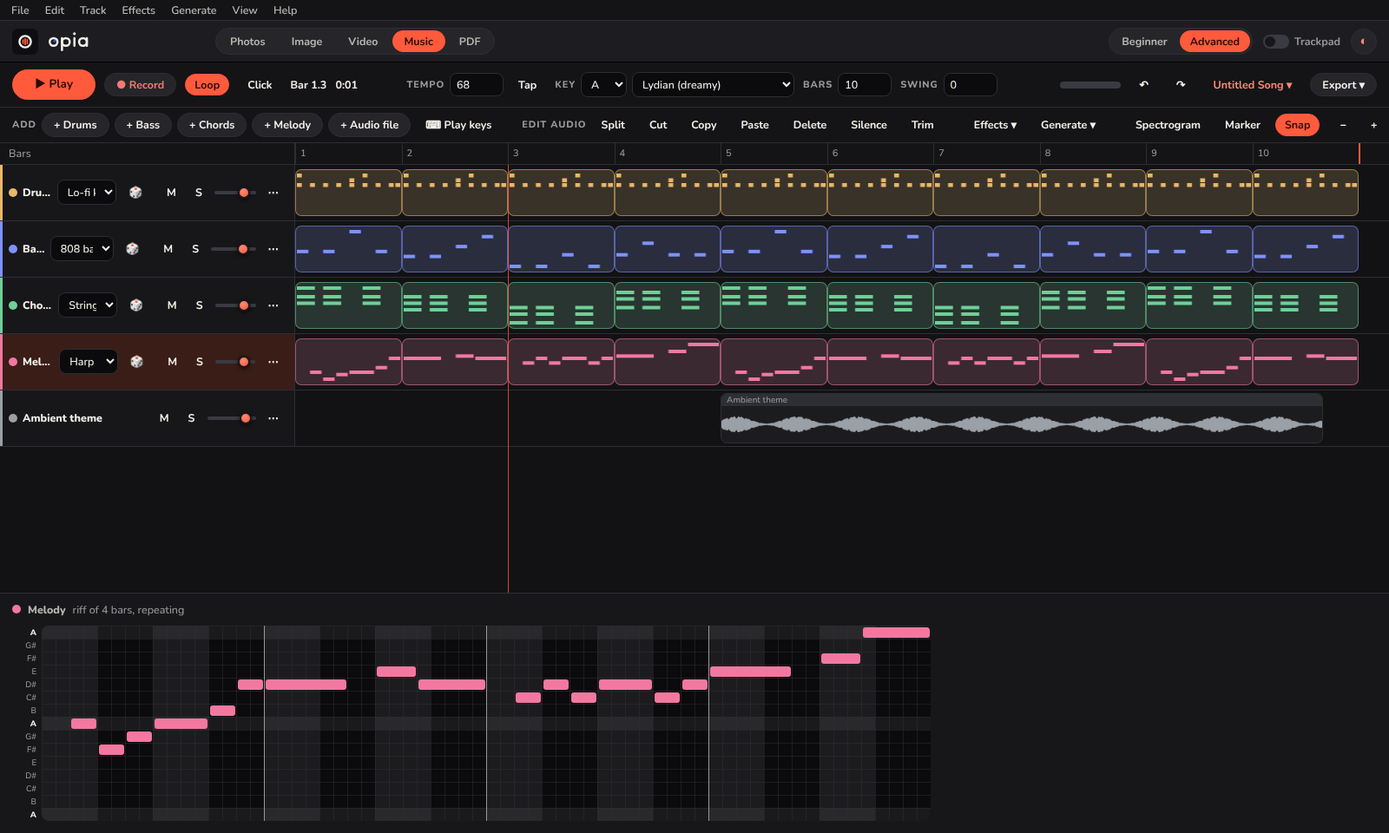
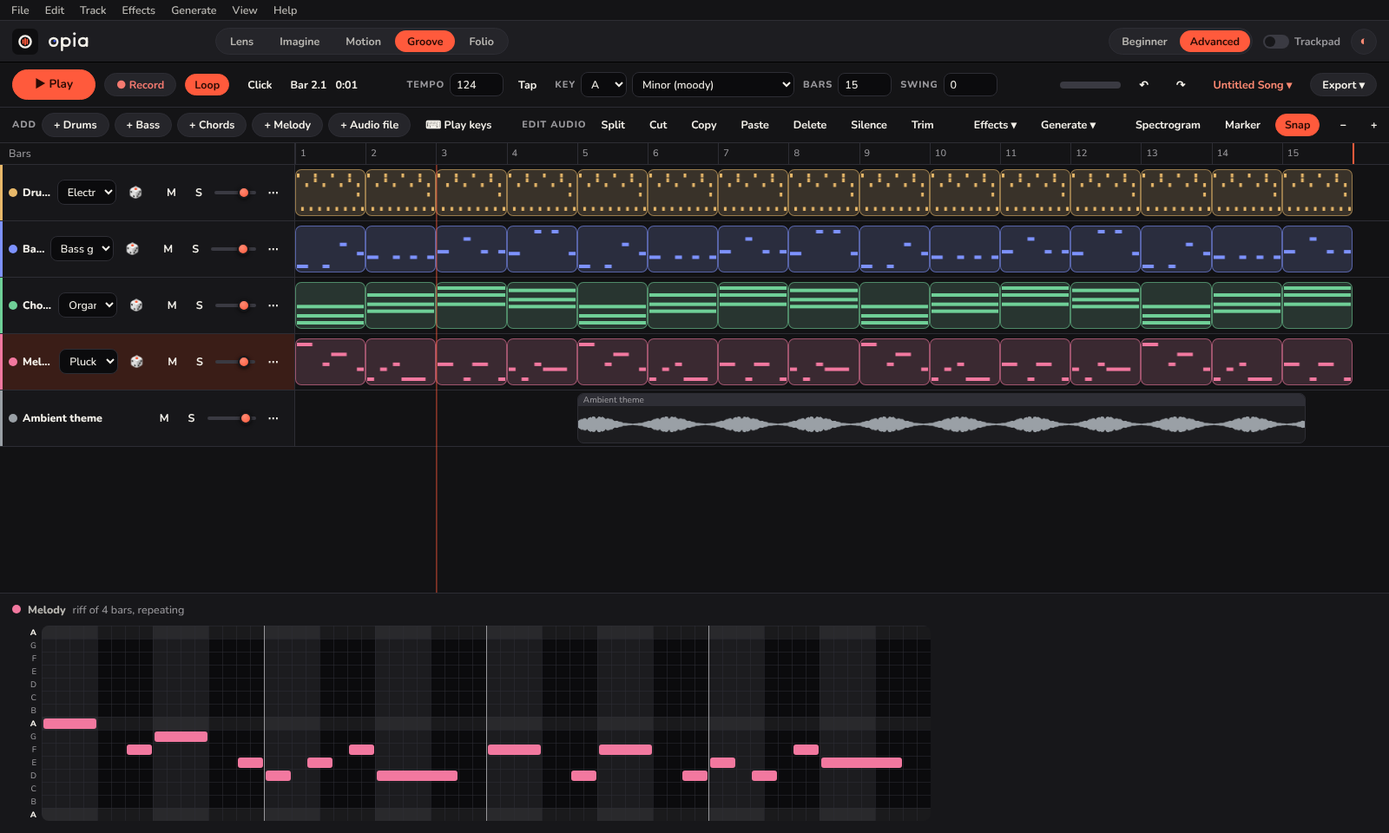
Rename the workspaces: Lens, Imagine, Motion, Groove, Folio
Photos, Image, Video, Music and PDF get their new names on the switch,
welcome screens, tour, About box, menus and messages. The names are not
translated. README, banner and screenshots updated. Folders on disk and
internal identifiers are unchanged so existing work keeps opening.

Claude-Session: https://claude.ai/code/session_0174ShAgsKe6ErnFQW6zpyMm

diff --git a/web/js/i18n.js b/web/js/i18n.js
@@ -96,7 +96,7 @@ Strings=Cuerdas|Guitar=Guitarra|Harp=Arpa|Marimba=Marimba|808 bass=Bajo 808|My s
 Make and edit music=Crea y edita música|Output level=Nivel de salida|Zoom out=Alejar|Zoom in=Acercar|Show the whole song=Mostrar toda la canción|There is nothing to export yet.=Todavía no hay nada que exportar.|Nothing copied yet.=Aún no has copiado nada.|Select the audio track to paste into.=Selecciona la pista de audio donde pegar.|Select an audio track first, then drag across the part you want.=Selecciona primero una pista de audio y arrastra sobre la parte que quieras.|Drag across the part of the audio you want to remove.=Arrastra sobre la parte del audio que quieres quitar.|Drag across the part you want to keep.=Arrastra sobre la parte que quieres conservar.
 That file could not be read as audio.=Ese archivo no se pudo leer como audio.|No microphone available, or permission was refused.=No hay micrófono disponible o se denegó el permiso.|Select a drums, bass, chords or melody track to edit its riff here. Click the bars in its lane to choose where it plays.=Selecciona una pista de batería, bajo, acordes o melodía para editar su riff aquí. Haz clic en los compases de su carril para elegir dónde suena.
 Drag across the waveform to select a range, click to place the cursor, and drag a clip by its name strip to move it. The Edit and Effects buttons act on the selection.=Arrastra sobre la onda para seleccionar un tramo, haz clic para colocar el cursor y arrastra un clip por su franja de nombre para moverlo. Los botones de edición y efectos actúan sobre la selección.|Nothing here yet. Add a part with the buttons above, or=Aún no hay nada. Añade una parte con los botones de arriba, o|Photos and Music=Fotos y música
-Opia is five workspaces. Photos is where this tour continues. Image is a layered picture editor for painting, cutting out and adding text. Video puts clips, titles and music on a timeline and exports an MP4. Music is a studio for making songs from short riffs and for editing audio. PDF is for reading, signing and rearranging PDFs.=Opia tiene cinco espacios de trabajo. El recorrido sigue en Fotos. Imagen es un editor de imágenes por capas para pintar, recortar y añadir texto. Vídeo pone clips, títulos y música en una línea de tiempo y exporta un MP4. Música es un estudio para crear canciones con riffs cortos y editar audio. PDF sirve para leer, firmar y reordenar archivos PDF.|Your workspaces=Tus espacios de trabajo|How fast the song is, in beats per minute. 80 to 100 feels relaxed, 120 and up feels like dancing.=La velocidad de la canción, en pulsos por minuto. De 80 a 100 es tranquilo; de 120 en adelante invita a bailar.|The home note of the song. Change it to move everything higher or lower. If it sounds fine, leave it.=La nota principal de la canción. Cámbiala para subir o bajar todo. Si suena bien, déjala.
+Opia is five workspaces. Lens, for your photos, is where this tour continues. Imagine is a layered picture editor for painting, cutting out and adding text. Motion puts clips, titles and music on a timeline and exports an MP4. Groove is a studio for making songs from short riffs and for editing audio. Folio is for reading, signing and rearranging PDFs.=Opia tiene cinco espacios de trabajo. El recorrido sigue en Lens, para tus fotos. Imagine es un editor de imágenes por capas para pintar, recortar y añadir texto. Motion pone clips, títulos y música en una línea de tiempo y exporta un MP4. Groove es un estudio para crear canciones con riffs cortos y editar audio. Folio sirve para leer, firmar y reordenar archivos PDF.|Your workspaces=Tus espacios de trabajo|How fast the song is, in beats per minute. 80 to 100 feels relaxed, 120 and up feels like dancing.=La velocidad de la canción, en pulsos por minuto. De 80 a 100 es tranquilo; de 120 en adelante invita a bailar.|The home note of the song. Change it to move everything higher or lower. If it sounds fine, leave it.=La nota principal de la canción. Cámbiala para subir o bajar todo. Si suena bien, déjala.
 The set of notes the riffs are allowed to use. Major sounds bright, Minor sounds moody. Because of it, no note you click will sound wrong.=El conjunto de notas que pueden usar los riffs. Mayor suena luminosa y Menor melancólica. Gracias a ella, ninguna nota que marques sonará mal.|A bar is one count of four beats. This is how many bars the song lasts before it loops.=Un compás es una cuenta de cuatro pulsos. Esto indica cuántos compases dura la canción antes de repetirse.|When on, playback goes back to the start at the end of the song.=Si está activo, la reproducción vuelve al principio al acabar la canción.
 A click on every beat while playing, to help you keep time when recording.=Un clic en cada pulso al reproducir, para ayudarte a llevar el ritmo al grabar.|Writes a fresh riff for this card that fits the rest of the song. Don’t like it? Press again, or Undo.=Escribe un riff nuevo para esta tarjeta que encaja con el resto de la canción. ¿No te gusta? Pulsa otra vez o deshaz.|How loud this part is.=El volumen de esta parte.|Places this part to the left or right.=Coloca esta parte a la izquierda o a la derecha.|A beat. Each row is a drum, each column a moment in the bar.=Un ritmo. Cada fila es un tambor y cada columna un momento del compás.
 The low notes that hold the song together.=Las notas graves que sostienen la canción.|Several notes at once, giving the song its mood.=Varias notas a la vez, que dan a la canción su carácter.|The tune on top, the part you would hum.=La melodía principal, la parte que tararearías.|Bring in a recording or a song from this computer.=Trae una grabación o una canción de este equipo.|New idea=Nueva idea|Metronome=Metrónomo
@@ -125,6 +125,8 @@ Shape=Forma|Width=Ancho|Height=Alto|Clips are fitted into this frame. 30 frames 
 Export Video=Exportar vídeo|Export Video…=Exportar vídeo…|Good=Buena|High (large file)=Alta (archivo grande)|Small file=Archivo pequeño|Makes an MP4 (H.264 video, AAC sound) that plays almost anywhere. Long or 4K videos take a while; you can keep working meanwhile.=Crea un MP4 (vídeo H.264, sonido AAC) que se reproduce casi en cualquier sitio. Los vídeos largos o 4K tardan un rato; puedes seguir trabajando mientras tanto.
 New Project…=Nuevo proyecto…|Rename Project…=Renombrar proyecto…|Delete Project…=Eliminar proyecto…|Delete This Project…=Eliminar este proyecto…|Import from Disk…=Importar desde el disco…|Save Frame as Picture…=Guardar fotograma como imagen…|Edit Frame in Image Editor=Editar fotograma en el editor de imágenes|Split at Playhead=Dividir en el cabezal|Select All Clips=Seleccionar todos los clips|Crossfade with Clip Before=Fundido con el clip anterior|Add Video Track=Añadir pista de vídeo|Add Audio Track=Añadir pista de audio|Rename Track…=Renombrar pista…|Delete Track=Eliminar pista|Rename Track=Renombrar pista|Play / Pause=Reproducir / pausa|Go to Start=Ir al inicio|Go to End=Ir al final|Show Whole Timeline=Ver toda la línea de tiempo|Clip=Clip|Playback=Reproducción|Make a Video from Selected Photos=Hacer un vídeo con las fotos seleccionadas|New Video=Nuevo vídeo|Rename Project=Renombrar proyecto|Delete Project?=¿Eliminar proyecto?
 Drag a clip to move it, also onto another audio track, and drag its ends to trim it. Shift-drag across the waveform to select part of it; the Edit and Effects buttons act on that, or on the clicked clip. Drop sound files from your computer anywhere on the timeline.=Arrastra un clip para moverlo, también a otra pista de audio, y arrastra sus extremos para recortarlo. Arrastra con Mayús sobre la forma de onda para seleccionar una parte; los botones de Edición y Efectos actúan sobre ella o sobre el clip pulsado. Suelta archivos de sonido de tu equipo en cualquier punto de la línea de tiempo.|Drag to move it, also onto another audio track. Drag an end to trim it. Shift-drag to select part of it.=Arrastra para moverlo, también a otra pista de audio. Arrastra un extremo para recortarlo. Arrastra con Mayús para seleccionar una parte.|Drag to trim the start=Arrastra para recortar el inicio|Drag to trim the end=Arrastra para recortar el final|New audio track=Nueva pista de audio
+Edit in Imagine=Editar en Imagine|Edit Frame in Imagine=Editar fotograma en Imagine|Make a Video in Motion=Hacer un vídeo en Motion|Pick a photo in Lens first.=Elige primero una foto en Lens.|Select some photos in Lens first.=Selecciona primero algunas fotos en Lens.|Add it to the Lens catalog=Añadirla al catálogo de Lens|Lens: organise and edit photos=Lens: organiza y edita fotos|Imagine: paint, combine pictures in layers, add text, fix colours=Imagine: pinta, combina imágenes en capas, añade texto y corrige colores|Motion: edit video on a timeline and export an MP4=Motion: edita vídeo en una línea de tiempo y exporta un MP4|Groove: make and edit music=Groove: crea y edita música|Paint, cut out, combine pictures in layers, add text and shapes, and fix colours. Open a picture, start a blank one, or bring in a photo from Lens.=Pinta, recorta, combina imágenes en capas, añade texto y formas y corrige colores. Abre una imagen, empieza una en blanco o trae una foto de Lens.
+Folio: read, sign, mark up and rearrange PDFs=Folio: lee, firma, anota y reordena archivos PDF
 `;
 
 const Lang = {

diff --git a/web/js/image.js b/web/js/image.js
@@ -30,7 +30,7 @@ const IE_TOOLS = [
 const IE_SIZES = [['Screen (1920 × 1080)', 1920, 1080], ['Square post (1080 × 1080)', 1080, 1080], ['Portrait post (1080 × 1350)', 1080, 1350], ['Story (1080 × 1920)', 1080, 1920], ['A4 page at 300 dpi', 2480, 3508], ['Letter page at 300 dpi', 2550, 3300], ['Small (800 × 600)', 800, 600]];
 
 const ImgEd = {
-  id: 'image', name: 'Image', exclusive: true, doc: null, tool: 'brush', undo: [], redo: [], gen: 0, view: { s: 1, ox: 0, oy: 0 }, fit: true,
+  id: 'image', name: 'Imagine', exclusive: true, doc: null, tool: 'brush', undo: [], redo: [], gen: 0, view: { s: 1, ox: 0, oy: 0 }, fit: true,
   style: { fg: '#1d1d1f', bg: '#ffffff', size: 24, hard: .8, flow: 1, tol: 32, contiguous: true, all: false, font: IE_FONTS[0][0], fsize: 64, bold: false, italic: false, align: 'left', shape: 'rect', fill: true, stroke: false, lw: 6, radius: 0, selMode: 'new', grad: 'fg' },
   clip: null, sel: null, tf: null, cropR: null, paintOp: null, preview: null, editing: null, space: false, ptr: null,
 
@@ -131,9 +131,9 @@ const ImgEd = {
     if (files.length > 1) await this.place(files.slice(1));
   },
   async openPath(path) { await this.openFiles([{ path, name: path.split(/[\\/]/).pop() }]); },
-  /* open a photo from the Photos catalog, with its Develop edits */
+  /* open a photo from the Lens catalog, with its Develop edits */
   async fromPhoto(p) {
-    if (!p) return UI.toast('Pick a photo in Photos first.');
+    if (!p) return UI.toast('Pick a photo in Lens first.');
     App.show('image');
     if (!await this.leave()) return;
     const c = await Exporter.render(p, {}), d = this.makeDoc(c.width, c.height, p.filename.replace(/\.[^.]+$/, '') + ' edit');
@@ -839,7 +839,7 @@ const ImgEd = {
     const cat = h('input', { type: 'checkbox', checked: !!d.fromPhoto || App.conf('img_cat', false) });
     const showQ = () => { q.style.display = ['jpeg', 'webp'].includes(fmtSel.value) ? '' : 'none'; }; fmtSel.onchange = showQ; showQ();
     const ext = () => ({ png: '.png', jpeg: '.jpg', webp: '.webp', tiff: '.tif' })[fmtSel.value];
-    const r = await this.ask('Export Picture', ext, h('div', { class: 'pd-form' }, h('label', { class: 'frow' }, h('span', {}, 'Format'), fmtSel), q, h('label', { class: 'frow adv' }, h('span', {}, 'Size'), scale), h('label', { class: 'fcheck' }, cat, 'Add it to the Photos catalog'), h('p', { class: 'dim' }, 'Export makes one flat picture with every visible layer. Keep a project too if you want to change the layers later.')));
+    const r = await this.ask('Export Picture', ext, h('div', { class: 'pd-form' }, h('label', { class: 'frow' }, h('span', {}, 'Format'), fmtSel), q, h('label', { class: 'frow adv' }, h('span', {}, 'Size'), scale), h('label', { class: 'fcheck' }, cat, 'Add it to the Lens catalog'), h('p', { class: 'dim' }, 'Export makes one flat picture with every visible layer. Keep a project too if you want to change the layers later.')));
     if (!r) return;
     App.setConf('img_fmt', fmtSel.value); App.setConf('img_q', q.get()); App.setConf('img_cat', cat.checked);
     this.composite(); let cv = this.comp; const k = +scale.value / 100; if (k < 1) { const s = this.canvas(d.w * k, d.h * k), g = s.getContext('2d'); g.imageSmoothingQuality = 'high'; g.drawImage(cv, 0, 0, s.width, s.height); cv = s; }
@@ -854,8 +854,8 @@ const ImgEd = {
   drawWelcome() {
     $$('.ie-welcome', this.port).forEach(x => x.remove()); this.g.setTransform(1, 0, 0, 1, 0, 0); this.g.clearRect(0, 0, this.cv.width, this.cv.height); this.og.setTransform(1, 0, 0, 1, 0, 0); this.og.clearRect(0, 0, this.ov.width, this.ov.height);
     const recent = App.conf('img_recent', []);
-    this.port.append(h('div', { class: 'pd-welcome ie-welcome' }, h('img', { class: 'pd-logo', src: 'img/opia-image-icon.svg', alt: '' }), h('h2', {}, 'Image'), h('p', { class: 'dim' }, 'Paint, cut out, combine pictures in layers, add text and shapes, and fix colours. Open a picture, start a blank one, or bring in a photo from Photos.'),
-      h('div', { class: 'pd-big' }, this.btn('Open a Picture…', () => this.open(), null, 'primary big'), this.btn('New Blank Picture…', () => this.newDoc(), null, 'big'), this.btn('Edit the Selected Photo', () => this.fromPhoto(App.cur()), 'Open the photo that is selected in Photos, with its Develop edits.', 'big')),
+    this.port.append(h('div', { class: 'pd-welcome ie-welcome' }, h('img', { class: 'pd-logo', src: 'img/opia-image-icon.svg', alt: '' }), h('h2', {}, 'Imagine'), h('p', { class: 'dim' }, 'Paint, cut out, combine pictures in layers, add text and shapes, and fix colours. Open a picture, start a blank one, or bring in a photo from Lens.'),
+      h('div', { class: 'pd-big' }, this.btn('Open a Picture…', () => this.open(), null, 'primary big'), this.btn('New Blank Picture…', () => this.newDoc(), null, 'big'), this.btn('Edit the Selected Photo', () => this.fromPhoto(App.cur()), 'Open the photo that is selected in Lens, with its Develop edits.', 'big')),
       h('p', { class: 'dim' }, 'Or drop a picture here, or paste one with Ctrl+V.'),
       recent.length ? h('div', { class: 'pd-recent' }, h('div', { class: 'fsec' }, 'Opened recently'), recent.map(p => h('a', { title: p, data: { notr: 1 }, onclick: () => this.openPath(p).catch(UI.error) }, p.split(/[\\/]/).pop()))) : null));
   },
@@ -866,7 +866,7 @@ const ImgEd = {
     this.bar.replaceChildren(
       this.btn('Open…', () => this.open(), 'Open a picture or a saved project.'), this.btn('New…', () => this.newDoc(), 'Start a blank picture.', 'adv'),
       this.btn(d.dirty ? 'Save *' : 'Save', () => this.save(), 'Save a project that keeps the layers, so you can carry on later. The picture you opened is not changed.', d.dirty ? 'primary' : ''),
-      this.btn('Export…', () => this.exportPic(), 'Save a finished picture (PNG, JPEG, WebP or TIFF) to use anywhere. It can go straight into your Photos catalog.'), sep(),
+      this.btn('Export…', () => this.exportPic(), 'Save a finished picture (PNG, JPEG, WebP or TIFF) to use anywhere. It can go straight into your Lens catalog.'), sep(),
       h('b', { class: 'mu-name', title: 'Double-click to rename', data: { notr: 1 }, ondblclick: async () => { const n = await UI.prompt('Rename', 'Name', d.name); if (n) { d.name = n.replace(/[\\/:*?"<>|]/g, ''); d.path = null; this.drawBar(); } } }, d.name), h('span', { class: 'dim' }, d.w + ' × ' + d.h), sep(),
       h('button', { class: 'btn', title: 'Zoom out', onclick: () => this.zoomBy(.8) }, '−'), h('span', { class: 'pd-zoom', title: 'Fit the picture to the window (Ctrl+0)', onclick: () => this.setZoom('fit') }, z + '%'), h('button', { class: 'btn', title: 'Zoom in', onclick: () => this.zoomBy(1.25) }, '+'),
       h('button', { class: 'btn adv', title: 'Actual pixels (Ctrl+1)', onclick: () => this.setZoom(1) }, '1:1'),

diff --git a/web/js/app.js b/web/js/app.js
@@ -103,17 +103,17 @@ function registerCommands() {
   I('auto', 'Auto Tone', '', () => ImgEd.autoTone()); I('bw', 'Black & White', '', () => ImgEd.desaturate()); I('invertc', 'Invert Colours', 'Ctrl+I', () => ImgEd.invertColours()); I('posterize', 'Posterize…', '', () => ImgEd.posterize()); I('threshold', 'Threshold…', '', () => ImgEd.threshold());
   I('blur', 'Blur…', '', () => ImgEd.blur()); I('sharpen', 'Sharpen…', '', () => ImgEd.sharpen()); I('noise', 'Add Noise…', '', () => ImgEd.noise()); I('pixelate', 'Pixelate…', '', () => ImgEd.pixelate());
   I('zin', 'Zoom In', 'Ctrl+=', () => ImgEd.zoomBy(1.25)); I('zout', 'Zoom Out', 'Ctrl+-', () => ImgEd.zoomBy(.8)); I('zfit', 'Fit on Screen', 'Ctrl+0', () => ImgEd.setZoom('fit')); I('z100', 'Actual Pixels', 'Ctrl+1', () => ImgEd.setZoom(1));
-  C('photo.imageedit', 'Edit in Image Editor', '', () => ImgEd.fromPhoto(App.cur()));
+  C('photo.imageedit', 'Edit in Imagine', '', () => ImgEd.fromPhoto(App.cur()));
   const V = (id, label, key, fn, needP = true) => C('video.' + id, label, key, () => { if (App.module !== 'video') return; if (needP && !Vid.p) return UI.toast('Start or open a video project first.'); return fn(); }, { modules: ['video'] });
   V('new', 'New Project…', 'Ctrl+N', () => Vid.create(), false); V('rename', 'Rename Project…', '', () => Vid.rename()); V('delete', 'Delete Project…', '', () => Vid.del()); V('import', 'Import Media…', 'Ctrl+I', () => Vid.importMedia(), false); V('importdisk', 'Import from Disk…', '', () => Vid.importFromDisk(), false);
-  V('photos', 'Add Selected Photos', '', () => Vid.addPhotos(), false); V('export', 'Export Video…', 'Ctrl+Shift+E', () => Vid.exportDialog()); V('frame', 'Save Frame as Picture…', '', () => Vid.saveFrame()); V('frameimg', 'Edit Frame in Image Editor', '', () => Vid.frameToImage()); V('settings', 'Project Settings…', '', () => Vid.settings());
+  V('photos', 'Add Selected Photos', '', () => Vid.addPhotos(), false); V('export', 'Export Video…', 'Ctrl+Shift+E', () => Vid.exportDialog()); V('frame', 'Save Frame as Picture…', '', () => Vid.saveFrame()); V('frameimg', 'Edit Frame in Imagine', '', () => Vid.frameToImage()); V('settings', 'Project Settings…', '', () => Vid.settings());
   V('undo', 'Undo', 'Ctrl+Z', () => Vid.step(Vid.undo, Vid.redo)); V('redo', 'Redo', 'Ctrl+Y', () => Vid.step(Vid.redo, Vid.undo)); V('split', 'Split at Playhead', 'S', () => Vid.split()); V('del', 'Delete', 'Delete', () => Vid.remove()); V('ripple', 'Delete and Close Gap', 'Shift+Delete', () => Vid.remove(true));
   V('dup', 'Duplicate', 'Ctrl+D', () => Vid.duplicate()); V('selall', 'Select All Clips', 'Ctrl+A', () => Vid.selectAll()); V('xfade', 'Crossfade with Clip Before', '', () => Vid.crossfade()); V('detach', 'Detach Sound', '', () => Vid.detachAudio()); V('title', 'Add Title', 'T', () => Vid.addTitle());
   V('vtrack', 'Add Video Track', '', () => Vid.addTrack('video')); V('atrack', 'Add Audio Track', '', () => Vid.addTrack('audio')); V('play', 'Play / Pause', 'Space', () => Vid.toggle()); V('start', 'Go to Start', 'Home', () => Vid.seek(0)); V('end', 'Go to End', 'End', () => Vid.seek(Vid.total()));
   V('zin', 'Zoom In', 'Ctrl+=', () => Vid.zoom(1.4)); V('zout', 'Zoom Out', 'Ctrl+-', () => Vid.zoom(1 / 1.4)); V('zfit', 'Show Whole Timeline', 'Ctrl+0', () => Vid.zoomFit());
-  C('photo.videoshow', 'Make a Video from Selected Photos', '', () => { App.show('video'); Vid.addPhotos(); });
+  C('photo.videoshow', 'Make a Video in Motion', '', () => { App.show('video'); Vid.addPhotos(); });
   C('help.tour', 'Take the Tour', '', () => Tour.start());
-  C('help.about', 'About Opia', '', async () => { const ff = await api('video_ffmpeg').catch(() => ({ ok: false })); UI.alert('About Opia', `Opia ${App.boot.version}\nA local-first photo organizer and editor, with picture, video, music and PDF workspaces.\n\nCatalog: ${App.info.path}\nRAW support: ${App.boot.raw ? 'yes (LibRaw)' : 'not installed'}   Face models: ${App.boot.faces ? 'installed' : 'missing'}\nVideo (FFmpeg): ${ff.ok ? ff.version.replace(/ Copyright.*$/, '') : 'not found'}\nEverything runs on this computer; map tiles are the only thing fetched from the internet.`); });
+  C('help.about', 'About Opia', '', async () => { const ff = await api('video_ffmpeg').catch(() => ({ ok: false })); UI.alert('About Opia', `Opia ${App.boot.version}\nA local-first creative suite: Lens for photos, Imagine for pictures, Motion for video, Groove for music and Folio for PDFs.\n\nCatalog: ${App.info.path}\nRAW support: ${App.boot.raw ? 'yes (LibRaw)' : 'not installed'}   Face models: ${App.boot.faces ? 'installed' : 'missing'}\nVideo (FFmpeg): ${ff.ok ? ff.version.replace(/ Copyright.*$/, '') : 'not found'}\nEverything runs on this computer; map tiles are the only thing fetched from the internet.`); });
 }
 
 function buildMenus() {
@@ -204,9 +204,9 @@ async function start() {
     $('#identity').replaceChildren(Identity.el()); $('#identity').ondblclick = () => Identity.edit(); $('#identity').title = 'Double-click to customise the identity plate';
     const pick = $('#modpick'); for (const m of MODULES) { App.addModule(m); pick.append(h('a', { data: { m: m.id }, onclick: () => App.show(m.id) }, m.name)); }
     App.addModule(Music); App.addModule(Pdf); App.addModule(ImgEd); App.addModule(Vid);
-    const WORKSPACES = [['image', 'Image', 'Paint, combine pictures in layers, add text, fix colours'], ['video', 'Video', 'Edit video on a timeline and export an MP4'], ['music', 'Music', 'Make and edit music'], ['pdf', 'PDF', 'Read, sign, mark up and rearrange PDFs']];
+    const WORKSPACES = [['image', 'Imagine', 'Imagine: paint, combine pictures in layers, add text, fix colours'], ['video', 'Motion', 'Motion: edit video on a timeline and export an MP4'], ['music', 'Groove', 'Groove: make and edit music'], ['pdf', 'Folio', 'Folio: read, sign, mark up and rearrange PDFs']];
     const own = id => WORKSPACES.some(w => w[0] === id);
-    const apps = () => $('#apps').replaceChildren(h('span', { class: 'seg' }, h('a', { class: !own(App.module) ? 'on' : '', title: 'Organise and edit photos', onclick: () => App.show(App.lastPhoto || 'library') }, 'Photos'),
+    const apps = () => $('#apps').replaceChildren(h('span', { class: 'seg', data: { notr: 1 } }, h('a', { class: !own(App.module) ? 'on' : '', title: 'Lens: organise and edit photos', onclick: () => App.show(App.lastPhoto || 'library') }, 'Lens'),
       WORKSPACES.map(([id, label, tip]) => h('a', { class: App.module === id ? 'on' : '', title: tip, onclick: () => App.show(id) }, label))));
     App.on('module', id => { if (!own(id)) App.lastPhoto = id; apps(); buildMenus(); dispatchEvent(new Event('resize')); });
     Dev.el = UI.shell('develop'); Dev.init(Dev.el); GLR.init(Dev.cv);

diff --git a/web/js/video.js b/web/js/video.js
@@ -11,7 +11,7 @@ const VD_POS = [['bottom', 'Bottom'], ['lower', 'Lower third'], ['center', 'Cent
 const VD_EXTS = ['.mp4', '.m4v', '.mov', '.webm', '.mkv', '.avi', '.wmv', '.mpg', '.mpeg', '.mts', '.m2ts', '.3gp', '.mp3', '.wav', '.m4a', '.aac', '.ogg', '.opus', '.flac', '.wma', '.aif', '.aiff', '.jpg', '.jpeg', '.png', '.webp', '.gif', '.bmp', '.tif', '.tiff', '.heic'];
 
 const Vid = {
-  id: 'video', name: 'Video', exclusive: true, p: null, sel: new Set(), t: 0, playing: false, z: 60, undo: [], redo: [], snap: true,
+  id: 'video', name: 'Motion', exclusive: true, p: null, sel: new Set(), t: 0, playing: false, z: 60, undo: [], redo: [], snap: true,
   els: new Map(), peaks: new Map(), titleCache: new Map(), media: new Map(),
 
   /* ---- set-up */
@@ -110,7 +110,7 @@ const Vid = {
   mediaUrl(path) { return '/img/media?path=' + encodeURIComponent(path); },
   playPath(c) { const m = this.media.get(c.src); return (m && m.play) || c.src; },
   async addPhotos() {
-    const ids = App.selIds(); if (!ids.length) return UI.toast('Select some photos in Photos first.'); if (!this.p) await this.create(); if (!this.p) return;
+    const ids = App.selIds(); if (!ids.length) return UI.toast('Select some photos in Lens first.'); if (!this.p) await this.create(); if (!this.p) return;
     await this.saveNow(); const made = [];
     for (const id of ids) {
       const ph = App.photo(id); if (!ph) continue;
@@ -309,8 +309,8 @@ const Vid = {
   btn(label, run, tip, cls) { const b = h('button', { class: 'btn ' + (cls || ''), onclick: () => { try { const r = run(); if (r && r.catch) r.catch(UI.error); } catch (e) { UI.error(e); } } }, label); if (tip) { b.dataset.tip = tip; b.dataset.tipName = label.replace(/…$/, ''); } return b; },
   async drawWelcome() {
     const list = await api('video_list').catch(() => []);
-    this.welcomeEl.replaceChildren(h('div', { class: 'pd-welcome' }, h('img', { class: 'pd-logo', src: 'img/opia-video-icon.svg', alt: '' }), h('h2', {}, 'Video'), h('p', { class: 'dim' }, 'Put clips, pictures, titles and music on a timeline, trim and split them, fade between them, and export an MP4.'),
-      h('div', { class: 'pd-big' }, this.btn('New Video…', () => this.create(), null, 'primary big'), this.btn('Make a Slideshow from Selected Photos', () => this.addPhotos(), 'Start a project from the photos selected in Photos, four seconds each with crossfades.', 'big')),
+    this.welcomeEl.replaceChildren(h('div', { class: 'pd-welcome' }, h('img', { class: 'pd-logo', src: 'img/opia-video-icon.svg', alt: '' }), h('h2', {}, 'Motion'), h('p', { class: 'dim' }, 'Put clips, pictures, titles and music on a timeline, trim and split them, fade between them, and export an MP4.'),
+      h('div', { class: 'pd-big' }, this.btn('New Video…', () => this.create(), null, 'primary big'), this.btn('Make a Slideshow from Selected Photos', () => this.addPhotos(), 'Start a project from the photos selected in Lens, four seconds each with crossfades.', 'big')),
       list.length ? h('div', { class: 'pd-recent' }, h('div', { class: 'fsec' }, 'Your projects'), list.slice(0, 10).map(pr => h('a', { data: { notr: 1 }, onclick: () => this.load(pr.name).catch(UI.error) }, pr.name))) : null));
   },
   drawBar() {
@@ -319,7 +319,7 @@ const Vid = {
     const projBtn = h('button', { class: 'btn', onclick: e => this.projects(e).catch(UI.error) }, 'Projects ▾');
     this.bar.replaceChildren(projBtn, h('b', { class: 'mu-name', title: 'Double-click to rename', data: { notr: 1 }, ondblclick: () => this.rename().catch(UI.error) }, p.name), h('span', { class: 'dim' }, p.w + ' × ' + p.h + ', ' + p.fps + ' fps'), sep(),
       this.btn('Import Media…', () => this.importMedia(), 'Add video, sound or pictures to this project. You can also drop files on the media list or straight onto the timeline.'), this.btn('Add Title', () => this.addTitle(), 'Put words on screen at the playhead (T).'),
-      this.btn('Add Selected Photos', () => this.addPhotos(), 'Add the photos selected in Photos, with their Develop edits, as a run of pictures with crossfades.', 'adv'),
+      this.btn('Add Selected Photos', () => this.addPhotos(), 'Add the photos selected in Lens, with their Develop edits, as a run of pictures with crossfades.', 'adv'),
       h('span', { style: { flex: 1 } }),
       h('button', { class: 'btn', title: 'Undo', disabled: !this.undo.length, onclick: () => this.step(this.undo, this.redo) }, '↶'), h('button', { class: 'btn', title: 'Redo', disabled: !this.redo.length, onclick: () => this.step(this.redo, this.undo) }, '↷'),
       this.btn('Export…', () => this.exportDialog(), 'Make an MP4 video file from the timeline.', 'primary'),
@@ -327,7 +327,7 @@ const Vid = {
   },
   moreItems() {
     const it = (label, run, adv) => (adv && Modes.beginner ? null : { label, run: () => { const r = run(); if (r && r.catch) r.catch(UI.error); } });
-    return [it('Project Settings…', () => this.settings()), it('Import from Disk…', () => this.importFromDisk(), 1), it('Add Selected Photos', () => this.addPhotos()), '-', it('Save Frame as Picture…', () => this.saveFrame()), it('Edit Frame in Image Editor', () => this.frameToImage(), 1), '-', it('Add Video Track', () => this.addTrack('video'), 1), it('Add Audio Track', () => this.addTrack('audio'), 1)].filter(Boolean);
+    return [it('Project Settings…', () => this.settings()), it('Import from Disk…', () => this.importFromDisk(), 1), it('Add Selected Photos', () => this.addPhotos()), '-', it('Save Frame as Picture…', () => this.saveFrame()), it('Edit Frame in Imagine', () => this.frameToImage(), 1), '-', it('Add Video Track', () => this.addTrack('video'), 1), it('Add Audio Track', () => this.addTrack('audio'), 1)].filter(Boolean);
   },
   drawTools() {
     const sep = () => h('span', { class: 'mu-sep' }), one = this.picked()[0];

diff --git a/web/js/pdf.js b/web/js/pdf.js
@@ -29,7 +29,7 @@ const PD_TOOLS = [
 ];
 
 const Pdf = {
-  id: 'pdf', name: 'PDF', exclusive: true, doc: null, srcs: new Map(), view: 'edit', zoom: 'fit', tool: 'select', sel: null, cur: 0, picked: new Set(), last: null,
+  id: 'pdf', name: 'Folio', exclusive: true, doc: null, srcs: new Map(), view: 'edit', zoom: 'fit', tool: 'select', sel: null, cur: 0, picked: new Set(), last: null,
   undo: [], redo: [], hits: [], hit: -1, q: '', boxes: new Map(), thumbs: new Map(), pending: null,
   style: { color: '#e5322d', hl: '#ffe14d', size: 14, lw: 2, font: 'sans' },
 
@@ -197,7 +197,7 @@ const Pdf = {
   },
   welcome() {
     const recent = App.conf('pdf_recent', []);
-    return h('div', { class: 'pd-welcome' }, h('img', { class: 'pd-logo', src: 'img/opia-pdf-icon.svg', alt: '' }), h('h2', {}, 'PDF'), h('p', { class: 'dim' }, 'Read a PDF, fill it in, sign it, highlight it, or put its pages in a new order. Open several files at once to combine them into one.'),
+    return h('div', { class: 'pd-welcome' }, h('img', { class: 'pd-logo', src: 'img/opia-pdf-icon.svg', alt: '' }), h('h2', {}, 'Folio'), h('p', { class: 'dim' }, 'Read a PDF, fill it in, sign it, highlight it, or put its pages in a new order. Open several files at once to combine them into one.'),
       h('div', { class: 'pd-big' }, this.btn('Open a PDF…', () => this.open(), null, 'primary big'), this.btn('Combine Files…', () => this.open(), null, 'big'), this.btn('Pictures to PDF…', () => this.open(), null, 'big')),
       h('p', { class: 'dim' }, 'Or drop files anywhere in this window.'),
       recent.length ? h('div', { class: 'pd-recent' }, h('div', { class: 'fsec' }, 'Saved recently'), recent.map(p => h('a', { title: p, data: { notr: 1 }, onclick: () => this.openRecent(p).catch(UI.error) }, p.split(/[\\/]/).pop()))) : null);

diff --git a/web/js/tour.js b/web/js/tour.js
@@ -7,7 +7,7 @@ const Tour = {
   steps: [
     { title: 'Welcome to Opia', text: 'A one-minute tour of where everything lives. Just follow the little blue dot.' },
     { sel: '#modpick', at: 'below', title: 'Seven modules', text: 'Library organises and Develop edits. Map, Book, Slideshow, Print and Web turn your photos into something to share. Switch here, or press Ctrl+Alt+1 to 7.' },
-    { sel: '#apps', at: 'below', title: 'Your workspaces', text: 'Opia is five workspaces. Photos is where this tour continues. Image is a layered picture editor for painting, cutting out and adding text. Video puts clips, titles and music on a timeline and exports an MP4. Music is a studio for making songs from short riffs and for editing audio. PDF is for reading, signing and rearranging PDFs.' },
+    { sel: '#apps', at: 'below', title: 'Your workspaces', text: 'Opia is five workspaces. Lens, for your photos, is where this tour continues. Imagine is a layered picture editor for painting, cutting out and adding text. Motion puts clips, titles and music on a timeline and exports an MP4. Groove is a studio for making songs from short riffs and for editing audio. Folio is for reading, signing and rearranging PDFs.' },
     { sel: '#mod-library .side.left', at: 'right', title: 'Your sources', text: 'Catalog, Folders and Collections decide which photos you are looking at. Open Local Disk to add a folder, or use File > Import Photos.' },
     { sel: '#lib-views', at: 'inside', title: 'The grid', text: 'Every photo in the current source. Press 1 to 5 to rate, P to flag a pick and X to reject. G and E switch between Grid and Loupe.' },
     { sel: '#lib-filter', at: 'below', title: 'Find anything', text: 'Narrow the grid by text, flags or stars. Ctrl+L turns the filters on and off.' },

diff --git a/web/js/music.js b/web/js/music.js
@@ -20,7 +20,7 @@ const MU_TIPS = {
 };
 
 const Music = {
-  id: 'music', name: 'Music', exclusive: true, song: null, files: new Map(), sel: null, clipSel: null, range: null, cursor: 0, pps: 40, undo: [], redo: [], grids: [], clipboard: null, rec: null, spec: false, snap: true, multi: new Set(),
+  id: 'music', name: 'Groove', exclusive: true, song: null, files: new Map(), sel: null, clipSel: null, range: null, cursor: 0, pps: 40, undo: [], redo: [], grids: [], clipboard: null, rec: null, spec: false, snap: true, multi: new Set(),
 
   /* ---- song lifecycle */
   blank(name) { return { name, bpm: 100, key: 9, scale: 'minor', bars: 4, vol: .9, prog: null, tracks: [] }; },

diff --git a/README.md b/README.md
@@ -6,30 +6,30 @@
   <img alt="Windows" src="https://img.shields.io/badge/Windows-10%20%7C%2011-0E0E10?style=for-the-badge&logo=windows&logoColor=F4F1EA">
   <img alt="Python 3.10+" src="https://img.shields.io/badge/Python-3.10%2B-3D5AFE?style=for-the-badge&logo=python&logoColor=white">
   <img alt="Runs offline" src="https://img.shields.io/badge/Runs-offline-1a9c4b?style=for-the-badge">
-  <img alt="Five workspaces" src="https://img.shields.io/badge/Workspaces-5-B57CFF?style=for-the-badge">
+  <img alt="Five workspaces: Lens, Imagine, Motion, Groove, Folio" src="https://img.shields.io/badge/Lens%20%C2%B7%20Imagine%20%C2%B7%20Motion%20%C2%B7%20Groove%20%C2%B7%20Folio-B57CFF?style=for-the-badge">
 </p>
 
 <p align="center">
-  <a href="#-photos"><b>Photos</b></a> ·
-  <a href="#-image"><b>Image</b></a> ·
-  <a href="#-video"><b>Video</b></a> ·
-  <a href="#-music"><b>Music</b></a> ·
-  <a href="#-pdf"><b>PDF</b></a> ·
+  <a href="#-lens"><b>Lens</b></a> ·
+  <a href="#-imagine"><b>Imagine</b></a> ·
+  <a href="#-motion"><b>Motion</b></a> ·
+  <a href="#-groove"><b>Groove</b></a> ·
+  <a href="#-folio"><b>Folio</b></a> ·
   <a href="#-get-started"><b>Get started</b></a> ·
   <a href="CHANGELOG.md"><b>Changelog</b></a>
 </p>
 
 ---
 
-**Opia** is a desktop app for the things you make: a photo organiser and raw-style editor, a layered picture editor, a video editor, a music studio and a PDF editor. You switch between them with one click. Everything runs on your own computer: no account, no uploads, no subscription. A Python engine handles the files, catalogs, colour management and exports. The interface draws every photo edit on the graphics card (WebGL 2).
+**Opia** is a desktop app for the things you make, in five workspaces: **Lens** (a photo organiser and raw-style editor), **Imagine** (a layered picture editor), **Motion** (a video editor), **Groove** (a music studio) and **Folio** (a PDF editor). You switch between them with one click. Everything runs on your own computer: no account, no uploads, no subscription. A Python engine handles the files, catalogs, colour management and exports. The interface draws every photo edit on the graphics card (WebGL 2).
 
 Every workspace has a **Beginner** mode that shows the essentials in bigger controls, and an **Advanced** mode with every panel and tool. Opia also comes in four themes, in English and Spanish, and has trackpad-friendly controls.
 
 <br>
 
-## <img src="web/img/opia-icon.svg" width="34" align="top"> Photos
+## <img src="web/img/opia-icon.svg" width="34" align="top"> Lens
 
-<img src="docs/readme/photos.png" alt="The Photos library: a grid of landscape photos with ratings, flags and colour labels, the catalog and folders on the left and keywording on the right">
+<img src="docs/readme/photos.png" alt="The Lens library: a grid of landscape photos with ratings, flags and colour labels, the catalog and folders on the left and keywording on the right">
 
 Import, sort and find your photos, then edit them without ever changing the original files.
 
@@ -46,9 +46,9 @@ Your photos are never modified. Edits live in the catalog, and optionally in `.x
 
 <br>
 
-## <img src="web/img/opia-image-icon.svg" width="34" align="top"> Image
+## <img src="web/img/opia-image-icon.svg" width="34" align="top"> Imagine
 
-<img src="docs/readme/image.png" alt="The Image editor: a photo with a caption box shape layer and two editable text layers, tools on the left and the layers panel on the right">
+<img src="docs/readme/image.png" alt="Imagine, the picture editor: a photo with a caption box shape layer and two editable text layers, tools on the left and the layers panel on the right">
 
 A layered picture editor in the spirit of Photoshop.
 
@@ -56,14 +56,14 @@ A layered picture editor in the spirit of Photoshop.
 - **Selections:** rectangle, oval, lasso and magic wand (Shift adds, Alt takes away). Feather, invert, fill, copy / cut / paste, layer via copy.
 - **Tools:** brush and eraser (with pen pressure), fill bucket, gradient, eyedropper, text, shapes, crop and **Free Transform** (Ctrl+T).
 - **Adjustments with a live preview:** levels, curves, hue / saturation, brightness / contrast, colour balance, auto tone, black & white, posterize and threshold. **Filters:** blur, sharpen, noise and pixelate.
-- Opens PNG, JPEG, WebP, GIF, BMP, TIFF, HEIC and RAW. Exports PNG, JPEG, WebP or TIFF, straight into your Photos catalog if you like. Projects (`.opiaimg`) keep every layer.
-- In Photos, *Photo › Edit in Image Editor* opens a photo with its Develop edits applied.
+- Opens PNG, JPEG, WebP, GIF, BMP, TIFF, HEIC and RAW. Exports PNG, JPEG, WebP or TIFF, straight into your Lens catalog if you like. Projects (`.opiaimg`) keep every layer.
+- In Lens, *Photo › Edit in Imagine* opens a photo with its Develop edits applied.
 
 <br>
 
-## <img src="web/img/opia-video-icon.svg" width="34" align="top"> Video
+## <img src="web/img/opia-video-icon.svg" width="34" align="top"> Motion
 
-<img src="docs/readme/video.png" alt="The Video editor: a title over a sunset photo in the preview, and a timeline with a title track, eight photo clips with crossfades and a music track">
+<img src="docs/readme/video.png" alt="Motion, the video editor: a title over a sunset photo in the preview, and a timeline with a title track, eight photo clips with crossfades and a music track">
 
 A timeline editor that exports MP4.
 
@@ -75,9 +75,9 @@ A timeline editor that exports MP4.
 
 <br>
 
-## <img src="web/img/opia-music-icon.svg" width="34" align="top"> Music
+## <img src="web/img/opia-music-icon.svg" width="34" align="top"> Groove
 
-<img src="docs/readme/music.png" alt="The Music studio in Advanced mode: drums, bass, chords and melody riffs over ten bars, an ambient audio track, and the melody's note grid below">
+<img src="docs/readme/music.png" alt="Groove, the music studio, in Advanced mode: drums, bass, chords and melody riffs over ten bars, an ambient audio track, and the melody's note grid below">
 
 A small studio for people who don't read music, which still has the tools for those who do.
 
@@ -88,9 +88,9 @@ A small studio for people who don't read music, which still has the tools for th
 
 <br>
 
-## <img src="web/img/opia-pdf-icon.svg" width="34" align="top"> PDF
+## <img src="web/img/opia-pdf-icon.svg" width="34" align="top"> Folio
 
-<img src="docs/readme/pdf.png" alt="The PDF editor: an itinerary with highlighted text, ticks and a red note with an arrow, page thumbnails on the left">
+<img src="docs/readme/pdf.png" alt="Folio, the PDF editor: an itinerary with highlighted text, ticks and a red note with an arrow, page thumbnails on the left">
 
 Read, fill in, sign and rearrange PDFs.
 
@@ -136,10 +136,10 @@ The packaged single-file app (`dist\Opia.exe`) is built with PyInstaller; the ex
 | Where | Keys |
 | --- | --- |
 | Everywhere | **F10** menus · **Ctrl+Z / Ctrl+Y** undo / redo · **Ctrl+/** all shortcuts · **F11** full screen |
-| Photos | **1–5** rating · **P / X / U** pick, reject, unflag · **G / E** grid / loupe · **D** Develop |
-| Image | **V M L W B E G T U C** tools · **[ ]** brush size · **Ctrl+T** transform · **Ctrl+J** layer via copy |
-| Video | **Space** play · **S** split · **T** title · **Alt+← →** nudge a clip · **Ctrl+Shift+E** export |
-| PDF | **Ctrl+F** find · **Ctrl+S** save · **Delete** remove the selected item or page |
+| Lens | **1–5** rating · **P / X / U** pick, reject, unflag · **G / E** grid / loupe · **D** Develop |
+| Imagine | **V M L W B E G T U C** tools · **[ ]** brush size · **Ctrl+T** transform · **Ctrl+J** layer via copy |
+| Motion | **Space** play · **S** split · **T** title · **Alt+← →** nudge a clip · **Ctrl+Shift+E** export |
+| Folio | **Ctrl+F** find · **Ctrl+S** save · **Delete** remove the selected item or page |
 
 Help › Customize Shortcuts lets you change them.
 
@@ -156,9 +156,9 @@ Help › Customize Shortcuts lets you change them.
 | Previews / Smart Previews | `<Name> Previews.opiadata`, `<Name> Smart Previews.opiadata` beside the catalog |
 | Backups | `Backups\<date>\<Name>.opiacat.zip` beside the catalog (or the folder set in Catalog Settings) |
 | Presets, preferences, recent catalogs | `Pictures\Opia\config.json` |
-| Songs | `Pictures\Opia\Music\<song>` |
-| Video projects, preview copies, thumbnails | `Pictures\Opia\Video\<project>`, `Pictures\Opia\Video\.cache` |
-| Image projects | wherever you save them (`.opiaimg`) |
+| Groove songs | `Pictures\Opia\Music\<song>` |
+| Motion projects, preview copies, thumbnails | `Pictures\Opia\Video\<project>`, `Pictures\Opia\Video\.cache` |
+| Imagine projects | wherever you save them (`.opiaimg`) |
 | Extra ICC profiles | `Pictures\Opia\Profiles` |
 | Plug-ins | `plugins\` here, plus any folders added in the Plug-in Manager |
 
@@ -203,7 +203,7 @@ Everything you can click can also be reached with **Tab** and pressed with **Ent
 ## 🧭 Honest limits
 
 <details>
-<summary><b>Photos</b></summary>
+<summary><b>Lens</b></summary>
 
 <br>
 
@@ -224,7 +224,7 @@ Everything you can click can also be reached with **Tab** and pressed with **Ent
 </details>
 
 <details>
-<summary><b>Image</b></summary>
+<summary><b>Imagine</b></summary>
 
 <br>
 
@@ -233,7 +233,7 @@ Editing is 8 bits per channel in sRGB, in the browser engine, so very large pict
 </details>
 
 <details>
-<summary><b>Video</b></summary>
+<summary><b>Motion</b></summary>
 
 <br>
 
@@ -242,7 +242,7 @@ No speed changes, keyframed motion, colour correction or effects on video clips,
 </details>
 
 <details>
-<summary><b>PDF</b></summary>
+<summary><b>Folio</b></summary>
 
 <br>
 
@@ -254,10 +254,10 @@ What you add is drawn into the page, so it looks the same in every viewer, and i
 
 ## 📜 Credits and licences
 
-- **FFmpeg** (video) comes from the [imageio-ffmpeg](https://github.com/imageio/imageio-ffmpeg) package. Its Python code is BSD-2-Clause, but the `ffmpeg` program inside it is a separate program under its own licence. Its builds are usually GPL builds (they include x264; run `ffmpeg -version` to check). That is fine for using Opia yourself. If you distribute `Opia.exe` with that ffmpeg inside, the GPL applies to the ffmpeg part. To use a different ffmpeg, put its full path in `config.json` as `"ffmpeg": "C:\\path\\to\\ffmpeg.exe"`; Help › About shows which one is in use.
+- **FFmpeg** (Motion) comes from the [imageio-ffmpeg](https://github.com/imageio/imageio-ffmpeg) package. Its Python code is BSD-2-Clause, but the `ffmpeg` program inside it is a separate program under its own licence. Its builds are usually GPL builds (they include x264; run `ffmpeg -version` to check). That is fine for using Opia yourself. If you distribute `Opia.exe` with that ffmpeg inside, the GPL applies to the ffmpeg part. To use a different ffmpeg, put its full path in `config.json` as `"ffmpeg": "C:\\path\\to\\ffmpeg.exe"`; Help › About shows which one is in use.
 - **Instrument samples:** Fluid R3 GM SoundFont, CC BY 3.0. See [`web/samples/CREDITS.md`](web/samples/CREDITS.md).
 - **Font:** Nunito, SIL Open Font License. See [`web/fonts/OFL.txt`](web/fonts/OFL.txt).
-- **PDF:** pypdf (BSD) and pypdfium2 (Apache-2.0 / BSD), chosen over AGPL alternatives.
+- **Folio:** pypdf (BSD) and pypdfium2 (Apache-2.0 / BSD), chosen over AGPL alternatives.
 - The pictures in these screenshots were generated for this page; they are not real photos.
 
 Opia's own code has no licence file yet, so by default all rights are reserved.

diff --git a/CHANGELOG.md b/CHANGELOG.md
@@ -3,6 +3,24 @@
 Every change to Opia is listed here, newest first, with what was tested and what was not.
 Work done in a cloud session (no access to the Windows PC) says so: those changes were tested in headless Chromium on Linux, not in the packaged `Opia.exe` window.
 
+## Workspaces renamed: Lens, Imagine, Motion, Groove, Folio (cloud session, 2026-10-15)
+
+You picked new names: **Photos → Lens, Image → Imagine, Video → Motion, Music → Groove, PDF → Folio**.
+
+**Changed**
+- The workspace switch in the top bar, its hover text ("Lens: organise and edit photos"...), the welcome-screen headings, the tour, and the About box.
+- Messages and menu items that named a workspace: *Photo › Edit in Imagine* (was Edit in Image Editor), *Edit Frame in Imagine*, *Make a Video in Motion*, "Add it to the Lens catalog", "Pick a photo in Lens first", and so on.
+- The workspace names are never translated: Spanish shows the same five names. Without this, "Lens" would have shown as "Objetivo", because the camera-lens metadata field already uses that word. The rest of the new text has Spanish versions.
+- The icon files' accessible names now say Lens / Imagine / Motion / Groove / Folio.
+- README: headings, links, the shortcut table, the limits and credits use the new names. The banner and all six screenshots were taken again so they show the new names.
+
+**Kept as they were, on purpose**
+- Folders on disk: `Pictures\Opia\Music\<song>` and `Pictures\Opia\Video\<project>`. Renaming them would hide your existing songs and projects. The README calls them Groove songs and Motion projects.
+- Internal identifiers (`image`, `video`, `music`, `pdf`), so saved settings, custom shortcuts and projects all keep working.
+- Menu titles that describe actions rather than the workspace, such as the "Image" menu in Imagine (image size, rotate...), "Export Video…", and the "Photo" menu in Lens.
+
+**Tested**: every workspace opens with its new name and its menus; the switch keeps the five names in Spanish; no page errors.
+
 ## A nicer GitHub front page (cloud session, 2026-10-15)
 
 **Changed**: `README.md` is rewritten as a product page:
